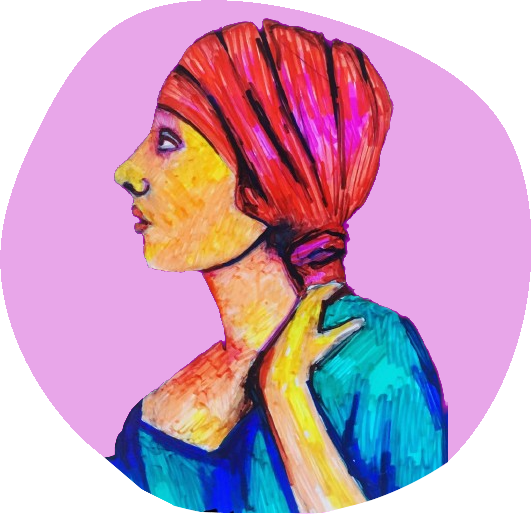
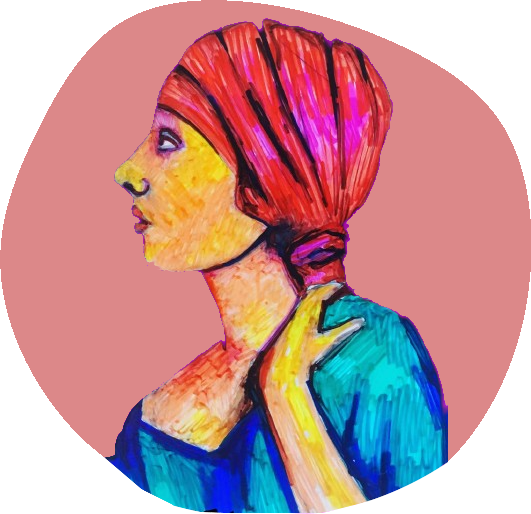
add portrait

diff --git a/src/styles/styles.scss b/src/styles/styles.scss
@@ -1,4 +1,4 @@
-$random-colour: rgb(220,136,137); 
+$random-colour: #dc8889; 
 
 /* General rules */
 
@@ -30,8 +30,12 @@ div.intro {
   margin-bottom: 10%;
 }
 
-p.links {
-  text-align: center
+.center {
+  text-align: center;
+}
+
+.me {
+  width: 90%
 }
 
 html,
@@ -57,10 +61,6 @@ p {
 ol,
 ul {
   padding-left: 0 !important;
-}
-
-img {
-  margin: 2.5em;
 }
 
 .box h2 {
@@ -108,6 +108,9 @@ button:focus {
   div.intro {
     text-align: center;
   }
+  .me {
+    width: 300px
+  }  
 }
 .body {
   position: absolute;
@@ -148,7 +151,7 @@ button:focus {
   left: 35%;
   animation: visibleAnimation 0s 1s forwards;
   visibility: hidden;
-  background: rgb(156, 136, 220);
+  background: #9c88dc;
 }
 
 #body3 {
@@ -158,7 +161,7 @@ button:focus {
   left: 65%;
   animation: visibleAnimation 0s 2s forwards;
   visibility: hidden;
-  background: rgb(136, 196, 220)
+  background: #88c4dc
 }
 
 #body4 {
@@ -168,7 +171,7 @@ button:focus {
   left: 86%;
   animation: visibleAnimation 0s 3s forwards;
   visibility: hidden;
-  background: rgb(179, 220, 136)
+  background: #b3dc88
 }
 @keyframes visibleAnimation {
   to {

diff --git a/src/pages/home.jsx b/src/pages/home.jsx
@@ -4,8 +4,8 @@ import Contact from "./contact";
 export default function Home() {
   return (
     <>
-  <div className="intro"><p>Hey, I’m Zainab Ismail, a London-based software engineer and poet.</p>
-  <p className="links"><a href="http://instagram.com/zai._i">instagram</a> <span className="pipe">|</span> <a href="https://www.linkedin.com/in/zainabismail">linkedin</a></p></div>
+  <div className="intro"><p className="center"><img src="/images/portrait.png" alt="me" className="me"/></p><p>Hey, I’m Zainab Ismail, a London-based software engineer and poet.</p>
+  <p className="center"><a href="http://instagram.com/zai._i">instagram</a> <span className="pipe">|</span> <a href="https://www.linkedin.com/in/zainabismail">linkedin</a></p></div>
   
 <Contact/>
 </>
